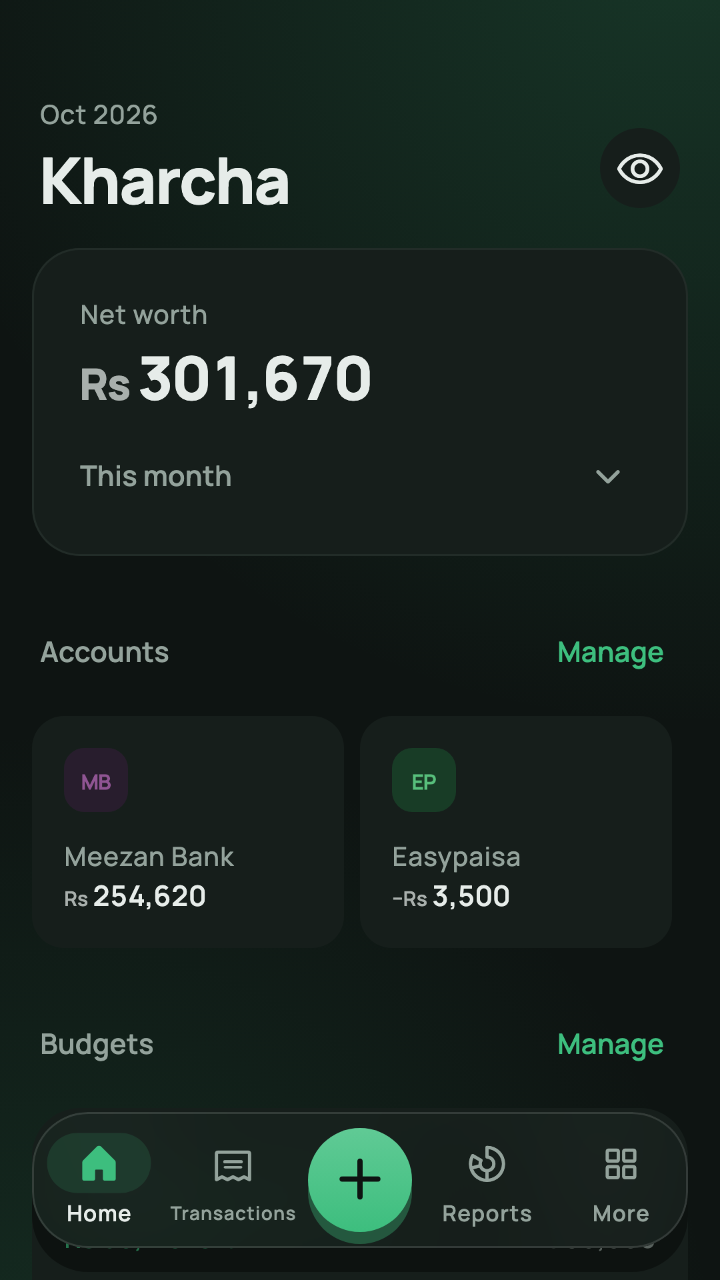
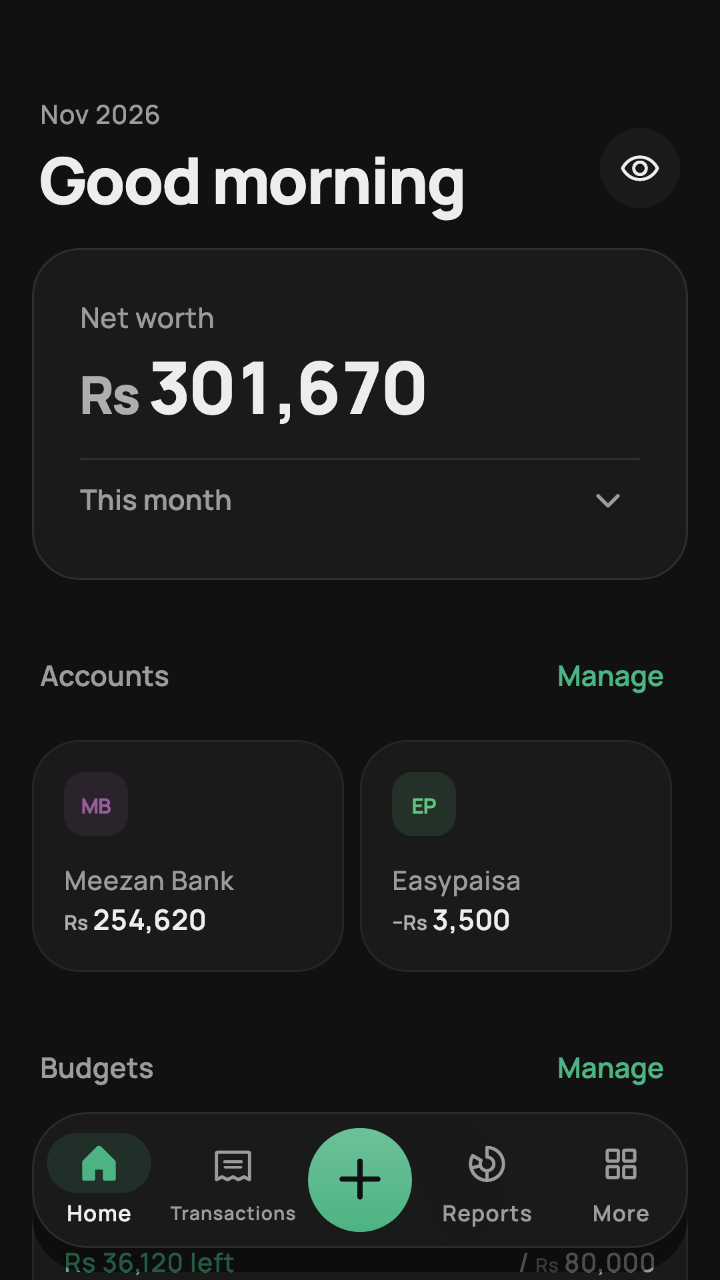
Dark palette: ink, not neon
Dark mode read as generated: green-tinted greys, ambient glows, a green
gradient card, tinted glass and coloured shadows, which don't show on
near-black anyway. It now uses untinted greys with depth from lightness
steps, and the green (calmer, #4DB383) marks only income, links and
the "+". Light mode is unchanged.

- AppColors.dark: neutral paper/surface/line/ink; glow transparent,
  glass near-solid
- HeroCard is a flat card in dark; AmbientBackground draws no glow;
  the "+" shadow follows the glow token
- TintedBadge: neutral chip with a hint of the hue in dark; the
  segmented thumb stands clear of its track
- Same widget tree in both themes, so switching theme keeps page state
- Native splash, web splash and the dark wordmark follow the new paper;
  dark store screenshot re-rendered
- DECISIONS #137

diff --git a/lib/core/widgets/hero_card.dart b/lib/core/widgets/hero_card.dart
@@ -5,7 +5,7 @@ import '../theme/app_typography.dart';
 import '../theme/context_x.dart';
 
 /// The one bold surface on a page: a brand-green gradient card for the
-/// headline figure (net worth on Home).
+/// headline figure (net worth on Home). In dark mode it is a plain card.
 ///
 /// Everything inside is re-themed for the green: ink and muted text turn
 /// white, income turns a pale mint, and inputs/lines become translucent
@@ -25,6 +25,12 @@ class HeroCard extends StatelessWidget {
   Widget build(BuildContext context) {
     final c = context.colors;
     final theme = Theme.of(context);
+    final radius = BorderRadius.circular(AppRadii.l);
+    // Dark: a flat card in the ordinary theme. A green block on near-black
+    // shouts; the headline figure carries the emphasis on its own. Same
+    // tree either way, so switching theme keeps the card's state.
+    final flat = theme.brightness == Brightness.dark;
+
     const white = Colors.white;
     final muted = white.withValues(alpha: 0.72);
     final on = c.copyWith(
@@ -36,52 +42,60 @@ class HeroCard extends StatelessWidget {
       surfaceMuted: white.withValues(alpha: 0.12),
       surface: white.withValues(alpha: 0.12),
     );
-    final radius = BorderRadius.circular(AppRadii.l);
 
     return DecoratedBox(
-      decoration: BoxDecoration(
-        borderRadius: radius,
-        gradient: LinearGradient(
-          begin: AlignmentDirectional.topStart,
-          end: AlignmentDirectional.bottomEnd,
-          colors: [c.heroStart, c.heroEnd],
-        ),
-        boxShadow: [
-          BoxShadow(
-            color: c.heroEnd.withValues(alpha: 0.28),
-            blurRadius: 24,
-            offset: const Offset(0, 10),
-          ),
-        ],
-      ),
+      decoration: flat
+          ? BoxDecoration(color: c.surface, borderRadius: radius)
+          : BoxDecoration(
+              borderRadius: radius,
+              gradient: LinearGradient(
+                begin: AlignmentDirectional.topStart,
+                end: AlignmentDirectional.bottomEnd,
+                colors: [c.heroStart, c.heroEnd],
+              ),
+              boxShadow: [
+                BoxShadow(
+                  color: c.heroEnd.withValues(alpha: 0.28),
+                  blurRadius: 24,
+                  offset: const Offset(0, 10),
+                ),
+              ],
+            ),
       child: ClipRRect(
         borderRadius: radius,
         child: DecoratedBox(
           // A soft light falling from the top corner, and a hairline edge,
           // so the green has depth rather than reading as a flat block.
-          decoration: BoxDecoration(
-            borderRadius: radius,
-            border: Border.all(color: white.withValues(alpha: 0.10)),
-            gradient: RadialGradient(
-              center: const Alignment(0.9, -1.2),
-              radius: 1.3,
-              colors: [
-                white.withValues(alpha: 0.16),
-                white.withValues(alpha: 0),
-              ],
-            ),
-          ),
+          decoration: flat
+              ? BoxDecoration(
+                  borderRadius: radius,
+                  border: Border.all(color: c.line),
+                )
+              : BoxDecoration(
+                  borderRadius: radius,
+                  border: Border.all(color: white.withValues(alpha: 0.10)),
+                  gradient: RadialGradient(
+                    center: const Alignment(0.9, -1.2),
+                    radius: 1.3,
+                    colors: [
+                      white.withValues(alpha: 0.16),
+                      white.withValues(alpha: 0),
+                    ],
+                  ),
+                ),
           child: Theme(
-            data: theme.copyWith(
-              extensions: [on],
-              textTheme: AppTypography.textTheme(white, muted),
-              iconTheme: theme.iconTheme.copyWith(color: white),
-              highlightColor: white.withValues(alpha: 0.08),
-              colorScheme: theme.colorScheme.copyWith(
-                onSurface: white,
-                onSurfaceVariant: muted,
-              ),
-            ),
+            data: flat
+                ? theme
+                : theme.copyWith(
+                    extensions: [on],
+                    textTheme: AppTypography.textTheme(white, muted),
+                    iconTheme: theme.iconTheme.copyWith(color: white),
+                    highlightColor: white.withValues(alpha: 0.08),
+                    colorScheme: theme.colorScheme.copyWith(
+                      onSurface: white,
+                      onSurfaceVariant: muted,
+                    ),
+                  ),
             child: Padding(padding: padding, child: child),
           ),
         ),

diff --git a/lib/core/theme/app_colors.dart b/lib/core/theme/app_colors.dart
@@ -47,23 +47,26 @@ class AppColors extends ThemeExtension<AppColors> {
     heroEnd: Color(0xFF0A5A37),
   );
 
+  /// Ink, not neon: untinted greys, depth from lightness steps rather than
+  /// shadows, and green rationed to income and the one primary action. No
+  /// glow, no frosted tint, and the hero card is drawn flat (see HeroCard).
   static const dark = AppColors(
-    paper: Color(0xFF0E1412),
-    surface: Color(0xFF161E1B),
-    surfaceMuted: Color(0xFF1E2824),
-    ink: Color(0xFFE6ECE9),
-    inkMuted: Color(0xFF93A29B),
-    line: Color(0xFF2A3530),
-    brand: Color(0xFF3DBE7E),
-    income: Color(0xFF3DBE7E),
+    paper: Color(0xFF111111),
+    surface: Color(0xFF1A1A1A),
+    surfaceMuted: Color(0xFF242424),
+    ink: Color(0xFFEDEDED),
+    inkMuted: Color(0xFF9B9B9B),
+    line: Color(0xFF2E2E2E),
+    brand: Color(0xFF4DB383),
+    income: Color(0xFF4DB383),
     warning: Color(0xFFE0A53A),
-    danger: Color(0xFFF0705F),
-    glass: Color(0x9E1A2420),
-    glassEdge: Color(0x1FFFFFFF),
-    glow: Color(0x333DBE7E),
-    shadow: Color(0x66000000),
-    heroStart: Color(0xFF1A7A50),
-    heroEnd: Color(0xFF0D3F29),
+    danger: Color(0xFFE8705F),
+    glass: Color(0xF21A1A1A),
+    glassEdge: Color(0x14FFFFFF),
+    glow: Color(0x00000000),
+    shadow: Color(0x80000000),
+    heroStart: Color(0xFF1A1A1A),
+    heroEnd: Color(0xFF1A1A1A),
   );
 
   /// Page background.
@@ -96,13 +99,14 @@ class AppColors extends ThemeExtension<AppColors> {
   final Color glassEdge;
 
   /// Ambient brand glow behind content, so glass has something to blur.
+  /// Transparent in dark, where a glow on near-black only reads as haze.
   final Color glow;
 
   /// Soft shadow under floating surfaces.
   final Color shadow;
 
   /// The headline card's brand gradient, top-start to bottom-end. Content
-  /// on it is white (see HeroCard).
+  /// on it is white (see HeroCard). Light only; dark draws the card flat.
   final Color heroStart;
   final Color heroEnd;
 

diff --git a/lib/core/widgets/ambient_background.dart b/lib/core/widgets/ambient_background.dart
@@ -13,15 +13,19 @@ class AmbientBackground extends StatelessWidget {
   @override
   Widget build(BuildContext context) {
     final c = context.colors;
-    RadialGradient glow(Alignment at, double radius, double strength) =>
-        RadialGradient(
-          center: at,
-          radius: radius,
-          colors: [
-            c.glow.withValues(alpha: c.glow.a * strength),
-            c.glow.withValues(alpha: 0),
-          ],
-        );
+    // No glow in this theme (dark): plain paper. The tree keeps its shape
+    // so switching theme doesn't rebuild the page (and lose its scroll).
+    RadialGradient? glow(Alignment at, double radius, double strength) =>
+        c.glow.a == 0
+        ? null
+        : RadialGradient(
+            center: at,
+            radius: radius,
+            colors: [
+              c.glow.withValues(alpha: c.glow.a * strength),
+              c.glow.withValues(alpha: 0),
+            ],
+          );
 
     return DecoratedBox(
       decoration: BoxDecoration(color: c.paper),

diff --git a/lib/core/widgets/tinted_badge.dart b/lib/core/widgets/tinted_badge.dart
@@ -23,15 +23,20 @@ class TintedBadge extends StatelessWidget {
 
   @override
   Widget build(BuildContext context) {
-    final tint = color ?? context.colors.brand;
+    final c = context.colors;
+    final tint = color ?? c.brand;
     final dark = Theme.of(context).brightness == Brightness.dark;
-    final fg = dark ? Color.lerp(tint, Colors.white, 0.25)! : tint;
+    final fg = dark ? Color.lerp(tint, Colors.white, 0.3)! : tint;
     return Container(
       width: size,
       height: size,
       alignment: Alignment.center,
       decoration: BoxDecoration(
-        color: tint.withValues(alpha: dark ? 0.22 : 0.13),
+        // Dark: a neutral chip with only a hint of the hue; a strong tint
+        // on near-black turns muddy. The glyph carries the colour.
+        color: dark
+            ? Color.alphaBlend(tint.withValues(alpha: 0.10), c.surfaceMuted)
+            : tint.withValues(alpha: 0.13),
         borderRadius: BorderRadius.circular(size * 0.32),
       ),
       child: icon != null

diff --git a/lib/core/theme/chart_palette.dart b/lib/core/theme/chart_palette.dart
@@ -1,7 +1,7 @@
 import 'package:flutter/material.dart';
 
 /// Chart colours, validated with the dataviz palette checker against
-/// Kharcha's surfaces (#FFFFFF light, #161E1B dark): lightness band,
+/// Kharcha's surfaces (#FFFFFF light, #1A1A1A dark): lightness band,
 /// chroma floor, colour-blind separation (worst adjacent ΔE 9.1 light /
 /// 8.4 dark) and normal-vision floor all pass. In light mode three slots
 /// are under 3:1 contrast, so every chart pairs colour with a labelled
@@ -44,7 +44,7 @@ abstract final class ChartPalette {
   /// "Other" (folded small slices) — neutral, never a ninth hue.
   static Color other(BuildContext context) =>
       Theme.of(context).brightness == Brightness.dark
-      ? const Color(0xFF6E7A74)
+      ? const Color(0xFF737373)
       : const Color(0xFFA9B2AD);
 
   /// Assigns each entity a slot that follows the entity, not its rank:

diff --git a/lib/core/widgets/segmented_picker.dart b/lib/core/widgets/segmented_picker.dart
@@ -60,7 +60,12 @@ class SegmentedPicker<T> extends StatelessWidget {
                 heightFactor: 1,
                 child: DecoratedBox(
                   decoration: BoxDecoration(
-                    color: dark ? c.line : c.surface,
+                    color: dark
+                        ? Color.alphaBlend(
+                            c.ink.withValues(alpha: 0.10),
+                            c.surfaceMuted,
+                          )
+                        : c.surface,
                     borderRadius: BorderRadius.circular(_height / 2),
                     boxShadow: [
                       BoxShadow(

diff --git a/lib/core/widgets/glass_nav_bar.dart b/lib/core/widgets/glass_nav_bar.dart
@@ -219,9 +219,10 @@ class _ActionButton extends StatelessWidget {
                   end: Alignment.bottomCenter,
                   colors: [Color.lerp(c.brand, Colors.white, 0.18)!, c.brand],
                 ),
+                // A brand glow in light; none in dark, where glow is clear.
                 boxShadow: [
                   BoxShadow(
-                    color: c.brand.withValues(alpha: 0.35),
+                    color: c.glow.withValues(alpha: c.glow.a * 2),
                     blurRadius: 16,
                     offset: const Offset(0, 6),
                   ),

diff --git a/web/index.html b/web/index.html
@@ -92,7 +92,7 @@
 
     @media (prefers-color-scheme: dark) {
       body {
-        background-color: #0E1412;
+        background-color: #111111;
           }
     }
   </style>

diff --git a/DECISIONS.md b/DECISIONS.md
@@ -197,6 +197,7 @@ or could not be followed literally. Newest milestone at the bottom.
 | 134 | Deferred: To-pay reminders | No notification on the due date yet; overdue items show in red on Home and the list. Deleting the entry that paid an item doesn't put the item back on the list (it can be put back by hand). | Kept the first version small; both can follow if wanted. |
 | 135 | Visual redesign (owner request) | **Motion tokens** `AppMotion` (fast 150 / base 220 / slow 300 ms, strong ease-out `Cubic(0.23, 1, 0.32, 1)`, ease-in-out for on-screen moves) replace hand-typed durations; `AppMotion.of` returns zero under the system's reduce-motion. **No ink ripple** (`NoSplash` + a faint highlight); tappable surfaces get a **press scale** through the shared `Pressable` (0.92–0.98), including the nav "+", which had no feedback. Android pages use the fade-forwards transition. **Home** leads with a greeting (morning / afternoon / evening, cycle dates above) and a brand-green **`HeroCard`** for net worth and This month, which re-themes its content white so ordinary widgets work on it; headline figures cross-fade when they change (`AmountText.animated`). **Pushed pages** put back and the actions on one top bar with the large title below; all header buttons are `HeaderButton`. **Accounts** is one grouped card; "Most used first" moved from a card into a sort button in the header (supersedes the toggle's placement in #131). People shows search and sort from 4 people. The unavailable period arrow is dimmed rather than missing. The chart palette's pure green became umber, re-validated. | Owner wanted a more modern UI. Kept on purpose: budget pencils (edit) beside row taps (entries), and the wrapping extras row in the editor (a scrolling row hid Repeat on a 390 dp phone). |
 | 136 | Split a bill | A **Split** chip on a new expense picks people (with "Add person", which reopens the list so several can be added). Save then opens a sheet with an amount for You and each person, equal to start with (a whole-rupee bill splits in whole rupees, the extra rupee to you first); every amount is editable, "Split equally" resets them, and Save stays off until they add up to the bill. Saving writes, in one database transaction (`saveAll`), your share as the expense in the chosen category and each person's share as udhaar you gave, all from the same account with the same note, date and tags; receipts go on one entry only. Zero shares are skipped. Repeat is hidden while splitting (a rule holds one entry) and the split is dropped on leaving Expense. The entries are not linked to each other: each is edited or deleted on its own. | Owner request: paying a bill for friends and recording who owes what in one go. Reuses udhaar so balances, People and reports need no change and no schema change. |
+| 137 | Dark palette: ink, not neon | Dark mode uses untinted greys (paper `#111111`, surface `#1A1A1A`, muted `#242424`, line `#2E2E2E`, ink `#EDEDED` / `#9B9B9B`); depth comes from lightness steps, not shadows. The brand green is calmer (`#4DB383`) and marks only income, links and the "+". In dark there is no ambient glow (`glow` is transparent), the glass bar is near-solid, the "+" has no green glow, and `HeroCard` is a flat card in the ordinary theme. Badges are neutral chips with a hint of their hue; the colour is in the glyph. Widgets keep the same tree in both themes, so switching theme doesn't rebuild pages. Native splash and dark wordmark follow `paper`. Light mode is unchanged. Supersedes the dark side of #14a and #135. | Owner: dark mode looked generated. Green-tinted greys, glows, gradients and glass together read as a template, and shadows don't show on near-black. |
 
 ## Open items carried forward
 
